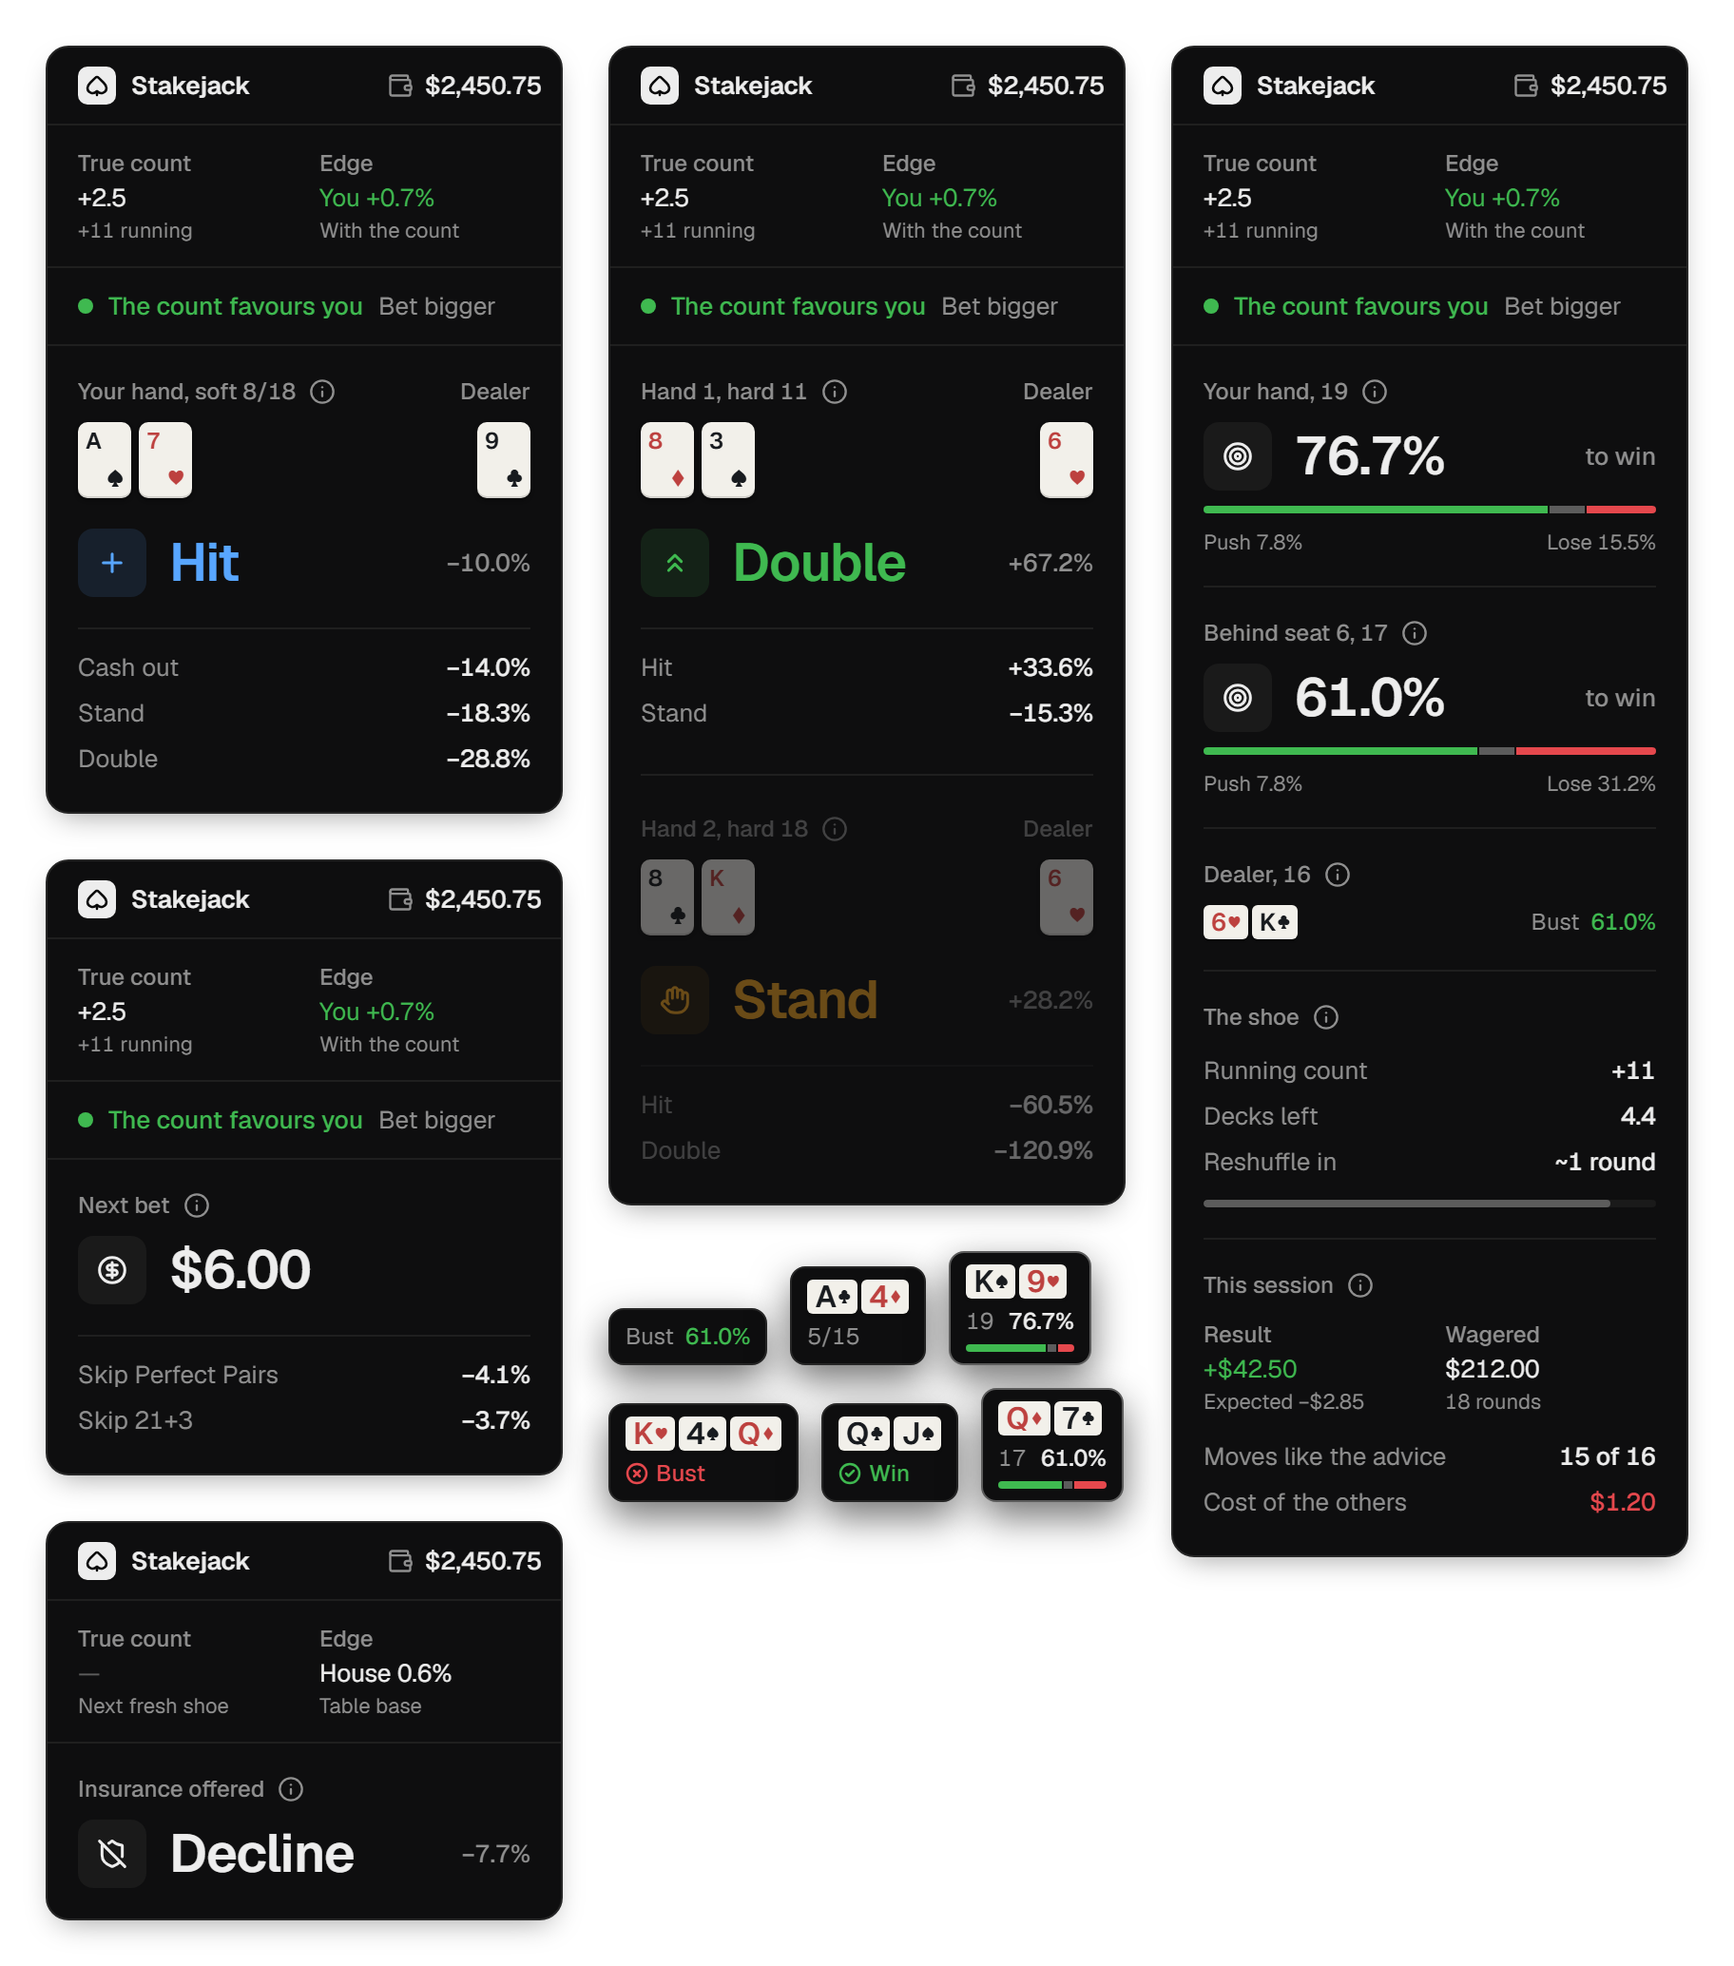
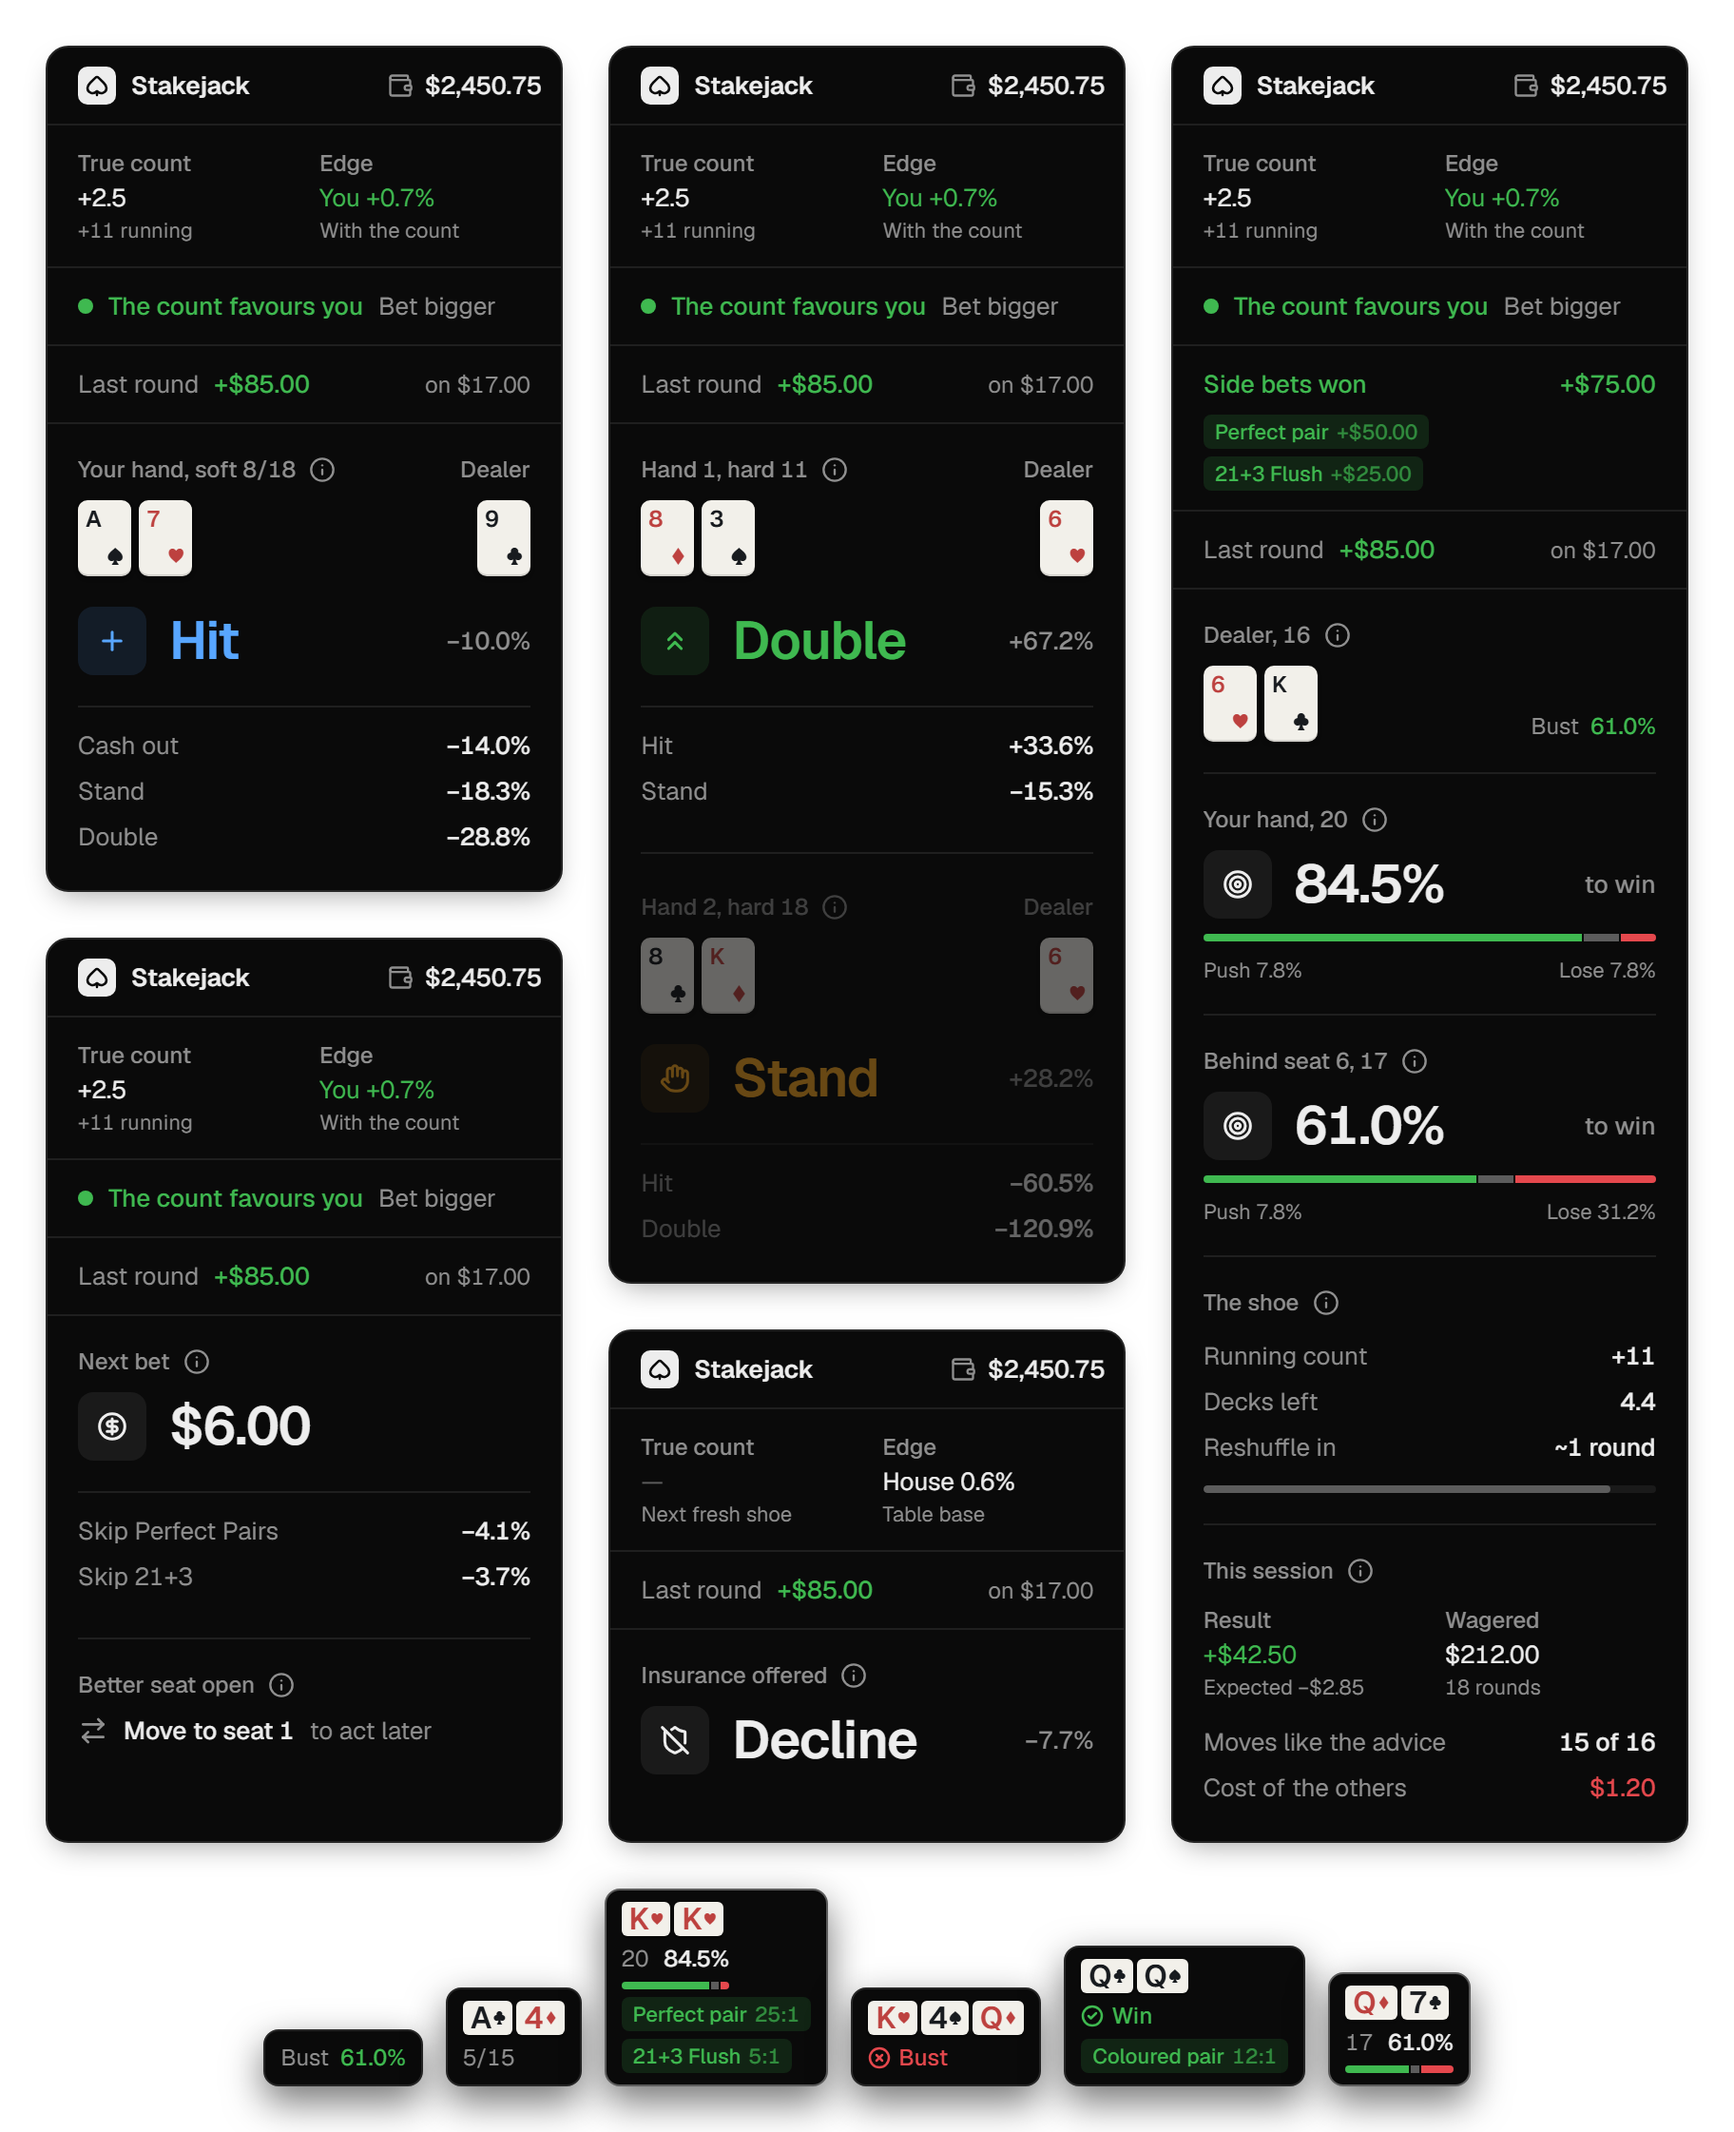
Lay the README screenshot out as an even rectangle

diff --git a/src/entrypoints/preview/preview-page.tsx b/src/entrypoints/preview/preview-page.tsx
@@ -8,10 +8,11 @@ import { SeatOutlookChip } from '@/ui/seat-outlooks';
 import { PREVIEW_DEALER, PREVIEW_SAMPLES, PREVIEW_SEATS, SampleId } from './sample-views';
 import type { PreviewSample } from './sample-views';
 
-// Stacks for the capture layout, balanced by hand so the three columns end at similar heights.
+// Stacks for the capture layout, paired so the three columns already end within a few pixels of each other.
+// The last panel in each column stretches to close the rest, so the image is an even rectangle.
 const CAPTURE_COLUMNS: readonly (readonly SampleId[])[] = [
-	[SampleId.MOVE, SampleId.BETTING, SampleId.INSURANCE],
-	[SampleId.SPLIT],
+	[SampleId.MOVE, SampleId.BETTING],
+	[SampleId.SPLIT, SampleId.INSURANCE],
 	[SampleId.OVERVIEW],
 ];
 
@@ -51,9 +52,36 @@ function MinimisedSample(): ReactElement | null {
 	);
 }
 
-// Just the panels on a transparent background, evenly spaced, for the README image. Panels are made opaque
-// and their shadows tightened, since there is no table behind them. The layout reports its own size on the
-// document so the screenshot can be cropped to it.
+type CaptureColumnProps = {
+	sampleIds: readonly SampleId[];
+};
+
+// One column of panels, stretched to the height of the tallest column.
+function CaptureColumn({ sampleIds }: CaptureColumnProps): ReactElement {
+	return (
+		<div className="flex flex-col gap-6">
+			{sampleIds.map(id => {
+				const sample = findSample(id);
+
+				return (
+					sample && (
+						<PanelCard
+							key={id}
+							view={sample.view}
+							unanchoredOutlooks={[]}
+							className="shadow-[0_6px_16px_-6px_rgb(0_0_0/40%)] last:flex-1"
+						/>
+					)
+				);
+			})}
+		</div>
+	);
+}
+
+// The panels and table chips on a transparent background for the README image: three columns of panels
+// with equal bottoms, and the chips centred in a row beneath them. Panels are made opaque and their shadows
+// tightened, since there is no table behind them. The layout reports its own size on the document so the
+// screenshot can be cropped to it.
 function CaptureLayout(): ReactElement {
 	const layout = useRef<HTMLDivElement>(null);
 
@@ -66,29 +94,16 @@ function CaptureLayout(): ReactElement {
 	});
 
 	return (
-		<div
-			ref={layout}
-			className="inline-flex items-start gap-6 p-6 font-sans text-foreground [--card:oklch(0.165_0.002_260)]"
-		>
-			{CAPTURE_COLUMNS.map((column, columnIndex) => (
-				<div key={columnIndex} className="flex flex-col gap-6">
-					{column.map(id => {
-						const sample = findSample(id);
+		<div ref={layout} className="inline-flex flex-col gap-6 p-6 font-sans text-foreground [--card:#0a0a0a]">
+			<div className="grid grid-cols-3 gap-6">
+				{CAPTURE_COLUMNS.map(column => (
+					<CaptureColumn key={column.join()} sampleIds={column} />
+				))}
+			</div>
 
-						return (
-							sample && (
-								<PanelCard
-									key={id}
-									view={sample.view}
-									unanchoredOutlooks={[]}
-									className="shadow-[0_6px_16px_-6px_oklch(0_0_0/40%)]"
-								/>
-							)
-						);
-					})}
-					{columnIndex === 1 && <SeatChips />}
-				</div>
-			))}
+			<div className="flex justify-center">
+				<SeatChips />
+			</div>
 		</div>
 	);
 }
